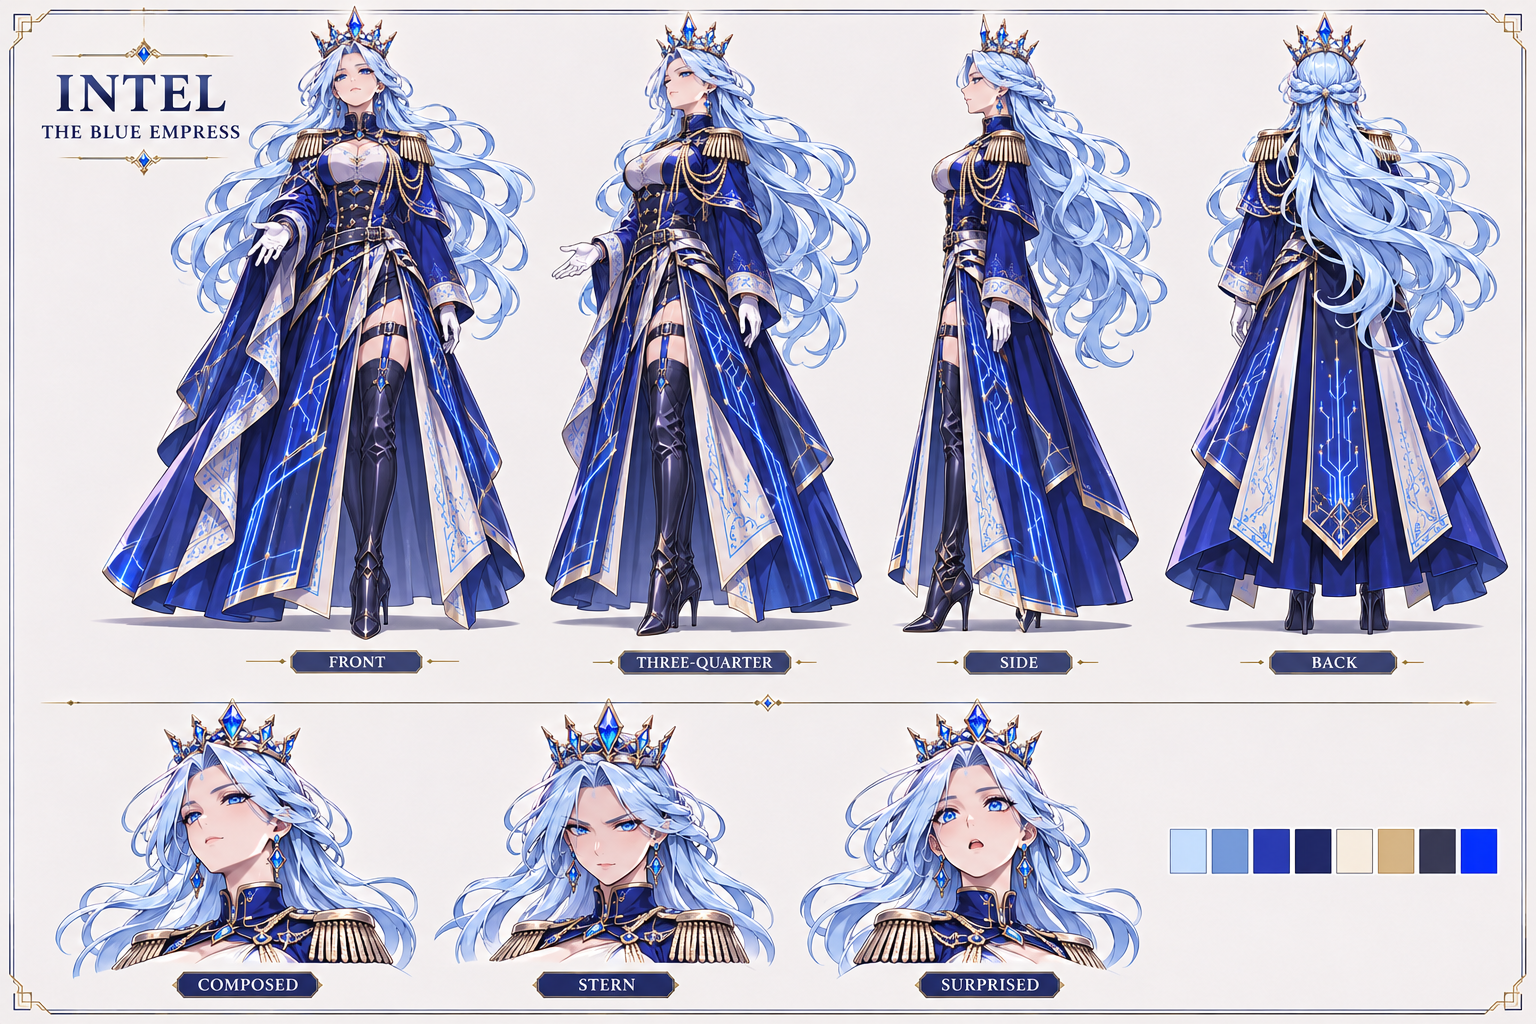
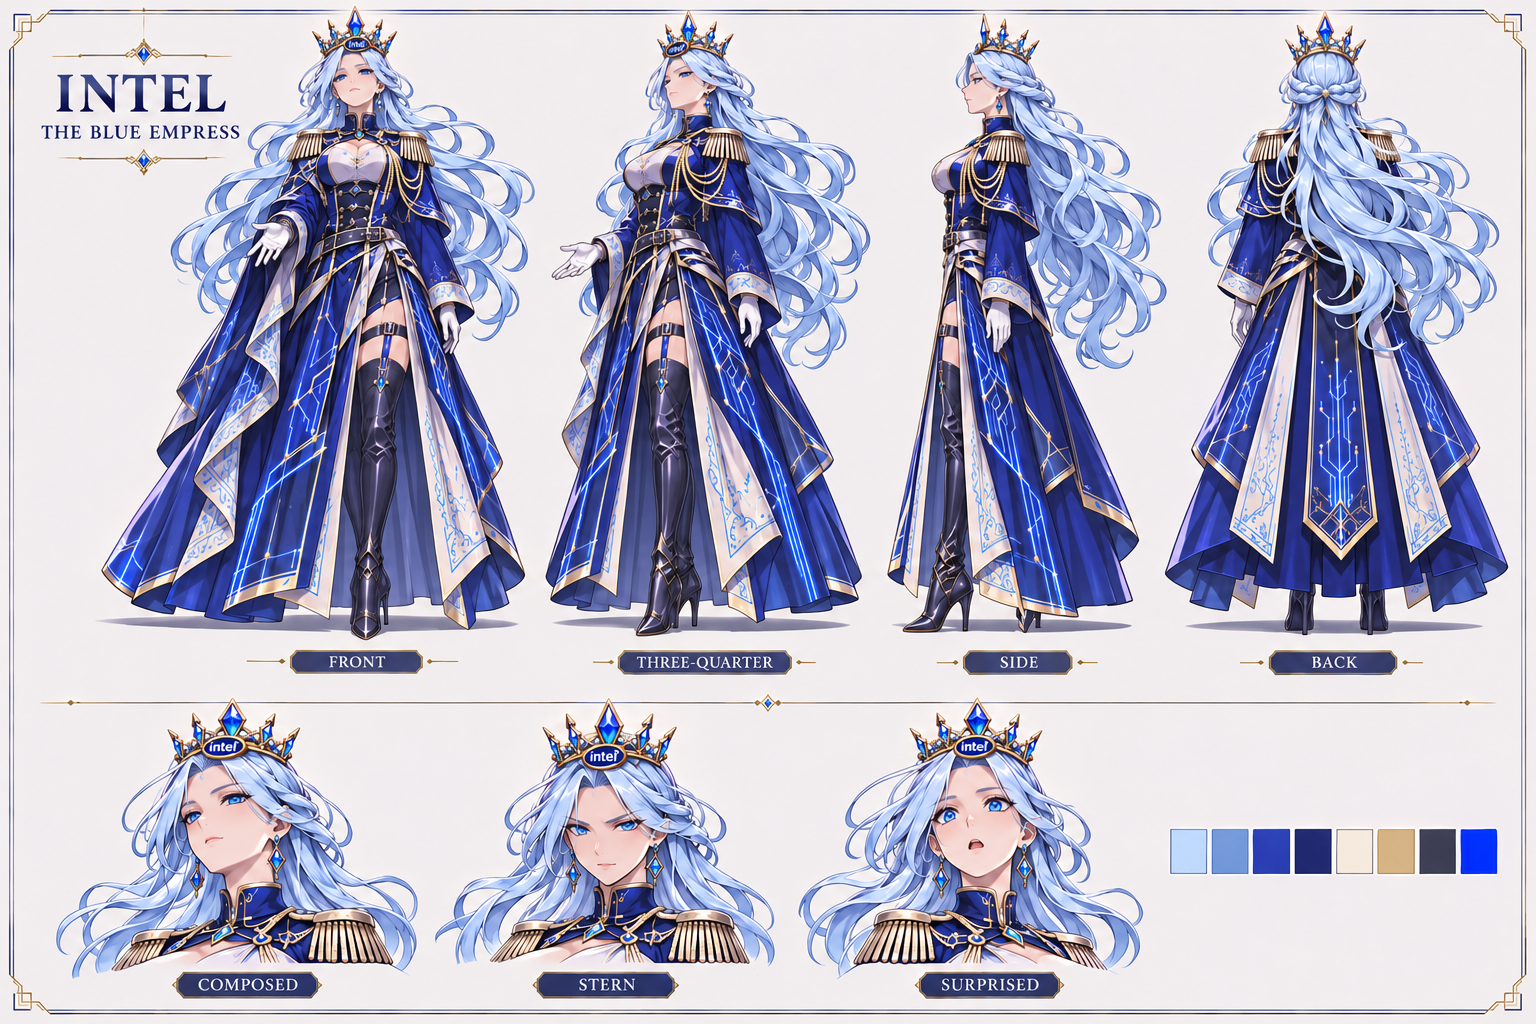
Add the Intel emblem to the Blue Empress crown

diff --git a/characters/intel/character_sheet.prompt.md b/characters/intel/character_sheet.prompt.md
@@ -1,24 +1,24 @@
-# Intel model sheet and reference card generation record
+# Intel illustration generation record
 
-Both illustrations were generated with the built-in image generator.
+The built-in image generator produced the initial artwork and the crown-badge revisions.
 
 ## Model sheet
 
-- Output [Illustrated model sheet](character_sheet.png)
+- Output [Pre-badge model sheet](https://github.com/hevangel/silicon_wars_anime_girls/blob/d3f5842277b0356693d3c54f49c9366072737076/characters/intel/character_sheet.png)
 - Input [Original Compute Triad poster](../../scratchpad/originals/compute_triad_original.png), with Intel on the left
 
 Create a polished landscape 3:2 anime character model sheet for INTEL, THE BLUE EMPRESS, an adult woman in Silicon Wars. Image 1 is the original Compute Triad painting. Use only Intel, the crowned woman on the FAR LEFT, as the identity and costume blueprint. Preserve her poised, mature face, sapphire eyes, and long, voluminous flowing hairstyle. Change the hair color to unmistakably pale icy sky blue from roots through tips, visibly light blue in every view, with soft blue shadows. Keep her ornate, pointed metallic crown set with bright sapphire-blue crystals, gold trim and small sapphire drop earrings. Faithfully carry over the original elegant imperial military silhouette: structured deep royal-blue and navy dress coat, high collar, cream-white front and lining, gold-fringed epaulettes, layered gold aiguillettes, tailored double-breasted waist, long split coat panels with subtle blue circuit embroidery, white gloves and tall black/navy military boots. Maintain the same crown, hairstyle, uniform construction, accessories and proportions in every angle. Put four complete standing turnarounds in a row on a pale neutral background, feet and crown tips fully in frame with comfortable outer margins: FRONT, THREE-QUARTER, SIDE, BACK. Below them, include three close-up expressions of the same face: COMPOSED, STERN, and SURPRISED, plus a small palette strip. Use clear restrained labels, with only the text "INTEL", "THE BLUE EMPRESS", "FRONT", "THREE-QUARTER", "SIDE", "BACK", "COMPOSED", "STERN", and "SURPRISED". Crisp high-end manga linework and detailed cel shading. Give the figures room to breathe. Keep the sheet free of other characters, product logos, scenery, and technical marketing copy.
 
 ## Reference card
 
-- Output [Painted reference card](reference_card.jpg)
-- Inputs [New model sheet](character_sheet.png) and [previous card](https://github.com/hevangel/silicon_wars_anime_girls/blob/d75dd93d8dbd2589fa7fe947df27eb1396df94b1/characters/intel/reference_card.jpg) for layout
+- Output [Pre-badge reference card](https://github.com/hevangel/silicon_wars_anime_girls/blob/d3f5842277b0356693d3c54f49c9366072737076/characters/intel/reference_card.jpg)
+- Inputs [Pre-badge model sheet](https://github.com/hevangel/silicon_wars_anime_girls/blob/d3f5842277b0356693d3c54f49c9366072737076/characters/intel/character_sheet.png) and [previous card](https://github.com/hevangel/silicon_wars_anime_girls/blob/d75dd93d8dbd2589fa7fe947df27eb1396df94b1/characters/intel/reference_card.jpg) for layout
 
 Create a polished portrait-oriented 2:3 anime character reference card for Intel in Silicon Wars. Image 1 is the approved model-sheet design to match: the adult Blue Empress, flowing icy light-blue hair, sapphire-blue eyes, ornate pointed metallic crown with faceted sapphire-blue crystals, gold trim, sapphire drop earrings, high-collared royal-blue imperial military coat with cream-white front and lining, gold-fringed epaulettes, layered gold cords, tailored waist, white gloves. Match that exact identity, crown shape, colors, and uniform details. Image 2 is the previous reference card and a guide ONLY for its vertical portrait-and-caption structure and blue tech framing. Give the new regal design a large three-quarter portrait from about the hips up, with the crown tips fully visible, a composed commanding gaze and a gloved hand holding a small wafer-shaped heirloom low in the frame. The character occupies most of the card, against understated blue circuitry and dark architecture. Keep the skin tones natural and the hair visibly light blue. Use a narrow elegant blue-and-gold border and a clean bottom nameplate. Render only the exact text "INTEL" and "THE BLUE EMPRESS" in the bottom nameplate, with no logos, watermark, marketing, or other text. Match the sheet's polished detailed manga linework and cel shading.
 
 ## Expression sheet
 
-The built-in image generator used the [current model sheet](character_sheet.png) for identity and the user’s attached example for layout and acting. The output is [expressions.png](expressions.png).
+The built-in image generator used the [pre-badge model sheet](https://github.com/hevangel/silicon_wars_anime_girls/blob/d3f5842277b0356693d3c54f49c9366072737076/characters/intel/character_sheet.png) for identity and the user’s attached example for layout and acting. The output is [the pre-badge expression sheet](https://github.com/hevangel/silicon_wars_anime_girls/blob/d3f5842277b0356693d3c54f49c9366072737076/characters/intel/expressions.png).
 
 Create a production-ready colored manga EXPRESSION SHEET for INTEL, THE BLUE EMPRESS, in Silicon Wars. Image 1 is this adult character's current model sheet. Follow it closely for the exact facial proportions, eyes, hairstyle, accessories, outfit, colors and body build. Image 2 is the user's layout and acting reference only. Use its one-full-body-plus-twelve-faces structure and range of expressions. Adult woman with long, flowing light sky-blue hair, sapphire eyes, a tall pointed sapphire-crystal crown, sapphire drop earrings, and the exact royal-blue imperial military coat with cream panels, gold epaulettes and cords, white gloves, and dark boots. Palette accents are sapphire blue and gold. Her default demeanor is composed and regal. In anger she issues a sharp command; in smugness she lifts one brow; in excitement she gives a rare delighted grin.
 
@@ -30,3 +30,31 @@ SMUG | FLUSTERED | SERIOUS
 BLUSHING | EXCITED | OMINOUS
 
 Distinguish all 12 clearly. Neutral is relaxed with open eyes; smiling is warm; eyes closed is calmly resting; angry has tight brows and an open sharp retort; crying has visible tears; surprised has wide eyes and a small open mouth; smug has one corner of the mouth raised; flustered has anxious brows and a small sweat drop; serious is alert with a level mouth; blushing is visibly flushed with a shy look; excited is an energetic delighted expression with bright eyes; ominous is quiet and shadowed, with a steady intimidating gaze. Use detailed colored anime linework and cel shading that match Image 1. Use only the nameplate and 12 exact English labels, with a crisp simple typeface. Keep every cell and label separate and readable. No other characters, layout panels, logos, watermark, or scenery.
+
+## Crown-badge revisions
+
+The [archived original reference card](https://github.com/hevangel/silicon_wars_anime_girls/blob/d75dd93d8dbd2589fa7fe947df27eb1396df94b1/characters/intel/reference_card.jpg) supplied the Intel logo. The edits targeted the corresponding pre-badge artwork linked above.
+
+### Current model sheet
+
+[Updated model sheet](character_sheet.png)
+
+Image 1 is the actual artwork to edit. Image 2 is the archived Intel card for the Intel logo ONLY. Make one localized edit to Image 1: mount a small, legible deep-sapphire blue enamel oval badge with a fine gold rim onto the front brow band of Intel's crown, immediately under the large central sapphire jewel and above her hairline. Inside the blue oval, reproduce the archived card's white lowercase Intel wordmark spelled exactly "intel", with the familiar white orbital swoosh, like the badge in Image 2. This is a tiny physical crown emblem, scaled like jewelry, with perspective and shading appropriate to the angle. Keep the central sapphire intact and do not cover her forehead or hair. Retain Image 1's exact art style, framing, expression, face, light-blue hair, blue-and-gold imperial uniform, jewelry, all crown spires and sapphire crystals, scenery, palette, borders, layout, and existing headings. No extra branding elsewhere.
+
+This is the original four-view character model sheet with three expression portraits. Place the same front-facing crown badge on each of the three portraits and on the front and three-quarter standing figures. In the true side view only the small edge can show; the back shows the rear of the crown. Keep the same 3:2 landscape sheet and exact labels FRONT, THREE-QUARTER, SIDE, BACK, COMPOSED, STERN, SURPRISED.
+
+### Current expression sheet
+
+[Updated expression sheet](expressions.png)
+
+Image 1 is the actual artwork to edit. Image 2 is the archived Intel card for the Intel logo ONLY. Make one localized edit to Image 1: mount a small, legible deep-sapphire blue enamel oval badge with a fine gold rim onto the front brow band of Intel's crown, immediately under the large central sapphire jewel and above her hairline. Inside the blue oval, reproduce the archived card's white lowercase Intel wordmark spelled exactly "intel", with the familiar white orbital swoosh, like the badge in Image 2. This is a tiny physical crown emblem, scaled like jewelry, with perspective and shading appropriate to the angle. Keep the central sapphire intact and do not cover her forehead or hair. Retain Image 1's exact art style, framing, expression, face, light-blue hair, blue-and-gold imperial uniform, jewelry, all crown spires and sapphire crystals, scenery, palette, borders, layout, and existing headings. No extra branding elsewhere.
+
+This is the original 12-expression sheet. Apply the same crown emblem to ALL twelve front-facing or three-quarter close-up crowns and to the full-body figure on the left. Preserve the existing 3:2 layout, exact grid of 3 columns by 4 rows, and every existing English label in place and correctly spelled. Maintain all twelve distinct expressions. At small scale prioritize the exact readable white lowercase "intel" wordmark.
+
+### Current reference card
+
+[Updated reference card](reference_card.jpg)
+
+Image 1 is the actual artwork to edit. Image 2 is the archived Intel card for the Intel logo ONLY. Make one localized edit to Image 1: mount a small, legible deep-sapphire blue enamel oval badge with a fine gold rim onto the front brow band of Intel's crown, immediately under the large central sapphire jewel and above her hairline. Inside the blue oval, reproduce the archived card's white lowercase Intel wordmark spelled exactly "intel", with the familiar white orbital swoosh, like the badge in Image 2. This is a tiny physical crown emblem, scaled like jewelry, with perspective and shading appropriate to the angle. Keep the central sapphire intact and do not cover her forehead or hair. Retain Image 1's exact art style, framing, expression, face, light-blue hair, blue-and-gold imperial uniform, jewelry, all crown spires and sapphire crystals, scenery, palette, borders, layout, and existing headings. No extra branding elsewhere.
+
+This is the original 2:3 reference card. In this large portrait the crown badge must be clearly readable and properly embedded in the crown band. Preserve the exact title "INTEL" and subtitle "THE BLUE EMPRESS", the sapphire crown silhouette and gem arrangement, the wafer in her glove, the background and gold card border.

diff --git a/characters/intel/art_prompt.md b/characters/intel/art_prompt.md
@@ -5,7 +5,7 @@ Create an anime character reference sheet for Intel, the adult Blue Empress of *
 ## Continuity lock
 
 - **Face and hair** · Composed, commanding face, sapphire-blue eyes, and long flowing light-blue hair with icy sky-blue highlights and soft blue shadows.
-- **Crown and jewelry** · Pointed metallic crown set with faceted sapphire-blue crystals, gold trim, and sapphire drop earrings.
+- **Crown and jewelry** · Pointed metallic crown set with faceted sapphire-blue crystals, gold trim, and sapphire drop earrings. Center a small blue enamel oval with the white lowercase Intel wordmark and orbital swoosh beneath the central sapphire.
 - **Uniform** · High-collared royal-blue imperial military coat, cream-white front and lining, gold-fringed epaulettes, layered gold cords, tailored double-breasted waist, and long split panels embroidered with subtle blue circuitry. White gloves and tall dark military boots.
 - **Body language and prop** · Disciplined and poised. Use a wafer-shaped heirloom when the scene calls for it. Her signature power is x86 Citadel.
 
@@ -13,4 +13,4 @@ For a sheet, render front, three-quarter, side, and back views at the same scale
 
 Signature line · “I built this kingdom before you counted transistors.”
 
-[Exact model sheet and reference card prompts](character_sheet.prompt.md)
+[Exact artwork generation prompts](character_sheet.prompt.md)

diff --git a/characters/intel/README.md b/characters/intel/README.md
@@ -11,7 +11,7 @@
 Composed and commanding; sapphire blue eyes and long flowing light-blue hair.
 
 ## Clothing and accessories
-Sapphire-crystal crown, royal-blue imperial military coat with gold-fringed epaulettes and cream lining, white gloves, and a wafer-shaped heirloom.
+Sapphire-crystal crown with a blue oval Intel-logo badge, royal-blue imperial military coat with gold-fringed epaulettes and cream lining, white gloves, and a wafer-shaped heirloom.
 
 ## Personality
 Proud, disciplined, strategic, wary of decline.
@@ -43,7 +43,7 @@ IBM and the PC ecosystem.
 ## Visual assets
 - [Illustrated character model sheet](character_sheet.png) with turnarounds, expressions, and palette.
 - [Expression sheet](expressions.png) with a full-body pose and 12 facial expressions.
-- [Model sheet and reference card prompts](character_sheet.prompt.md)
+- [Artwork generation prompts](character_sheet.prompt.md)
 - [Painted reference card](reference_card.jpg).
 - [Detailed final-anime illustration prompt](art_prompt.md)
 - [Original group illustration archive](../../scratchpad/illustrations.md)

diff --git a/bible/story_bible.md b/bible/story_bible.md
@@ -9,7 +9,7 @@ A seinen technology fantasy about corporate personifications whose powers derive
 - **Younger grannies:** DEC (red varsity jacket, interactive-computing hacker), Sun Microsystems (joyful purple Solaris jacket).
 
 ## Strict visual continuity
-- Intel: long light-blue hair, pointed sapphire crown, and a royal-blue imperial uniform with gold-fringed epaulettes. Composed, authoritative pose.
+- Intel: long light-blue hair, pointed sapphire crown with a blue oval Intel-logo badge, and a royal-blue imperial uniform with gold-fringed epaulettes. Composed, authoritative pose.
 - AMD: fiery red ponytail, red/black chiplet armor, athletic challenger stance.
 - Nvidia, the Emerald Queen: thick emerald-green braid and a black leather jacket-dress with glowing green circuit seams. She has the greatest raw physical strength of the cast, with powerful arms and naturally proportioned athletic legs.
 - Fairchild: rolled sleeves, red bandana, glasses, working forewoman; do not duplicate Bell Labs' silhouette.
